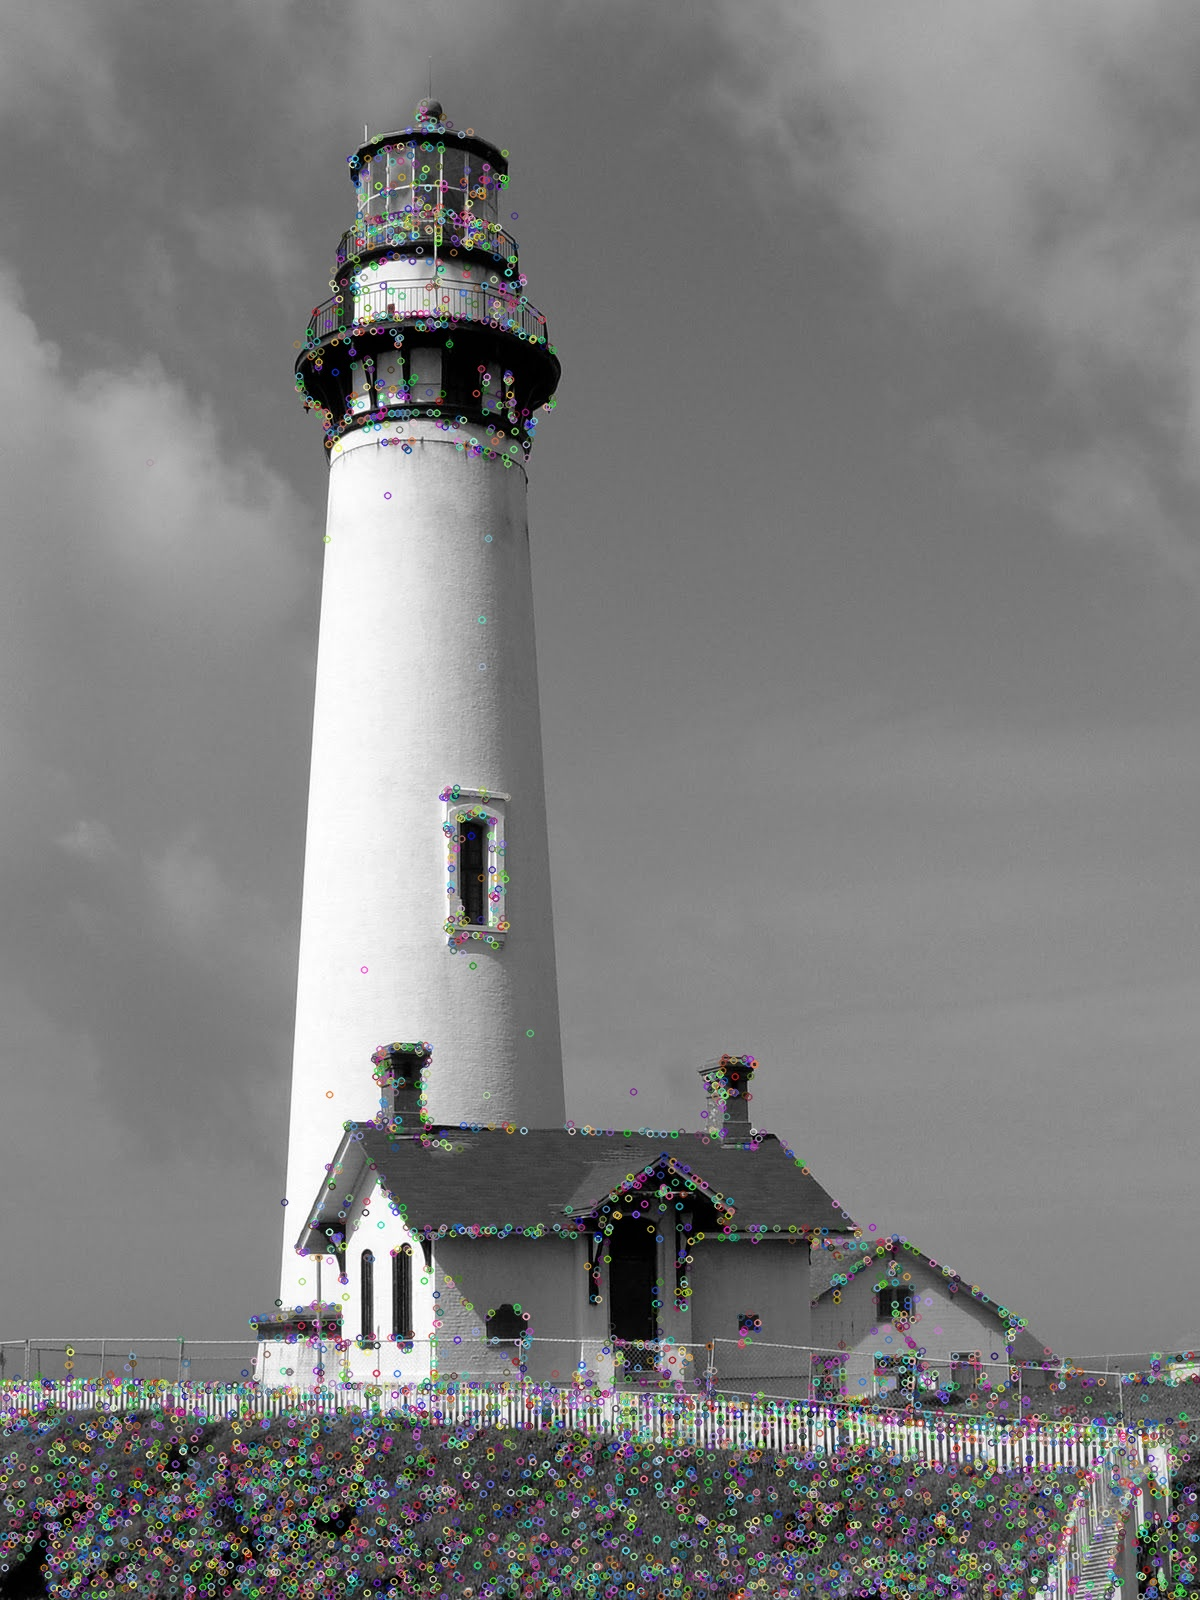
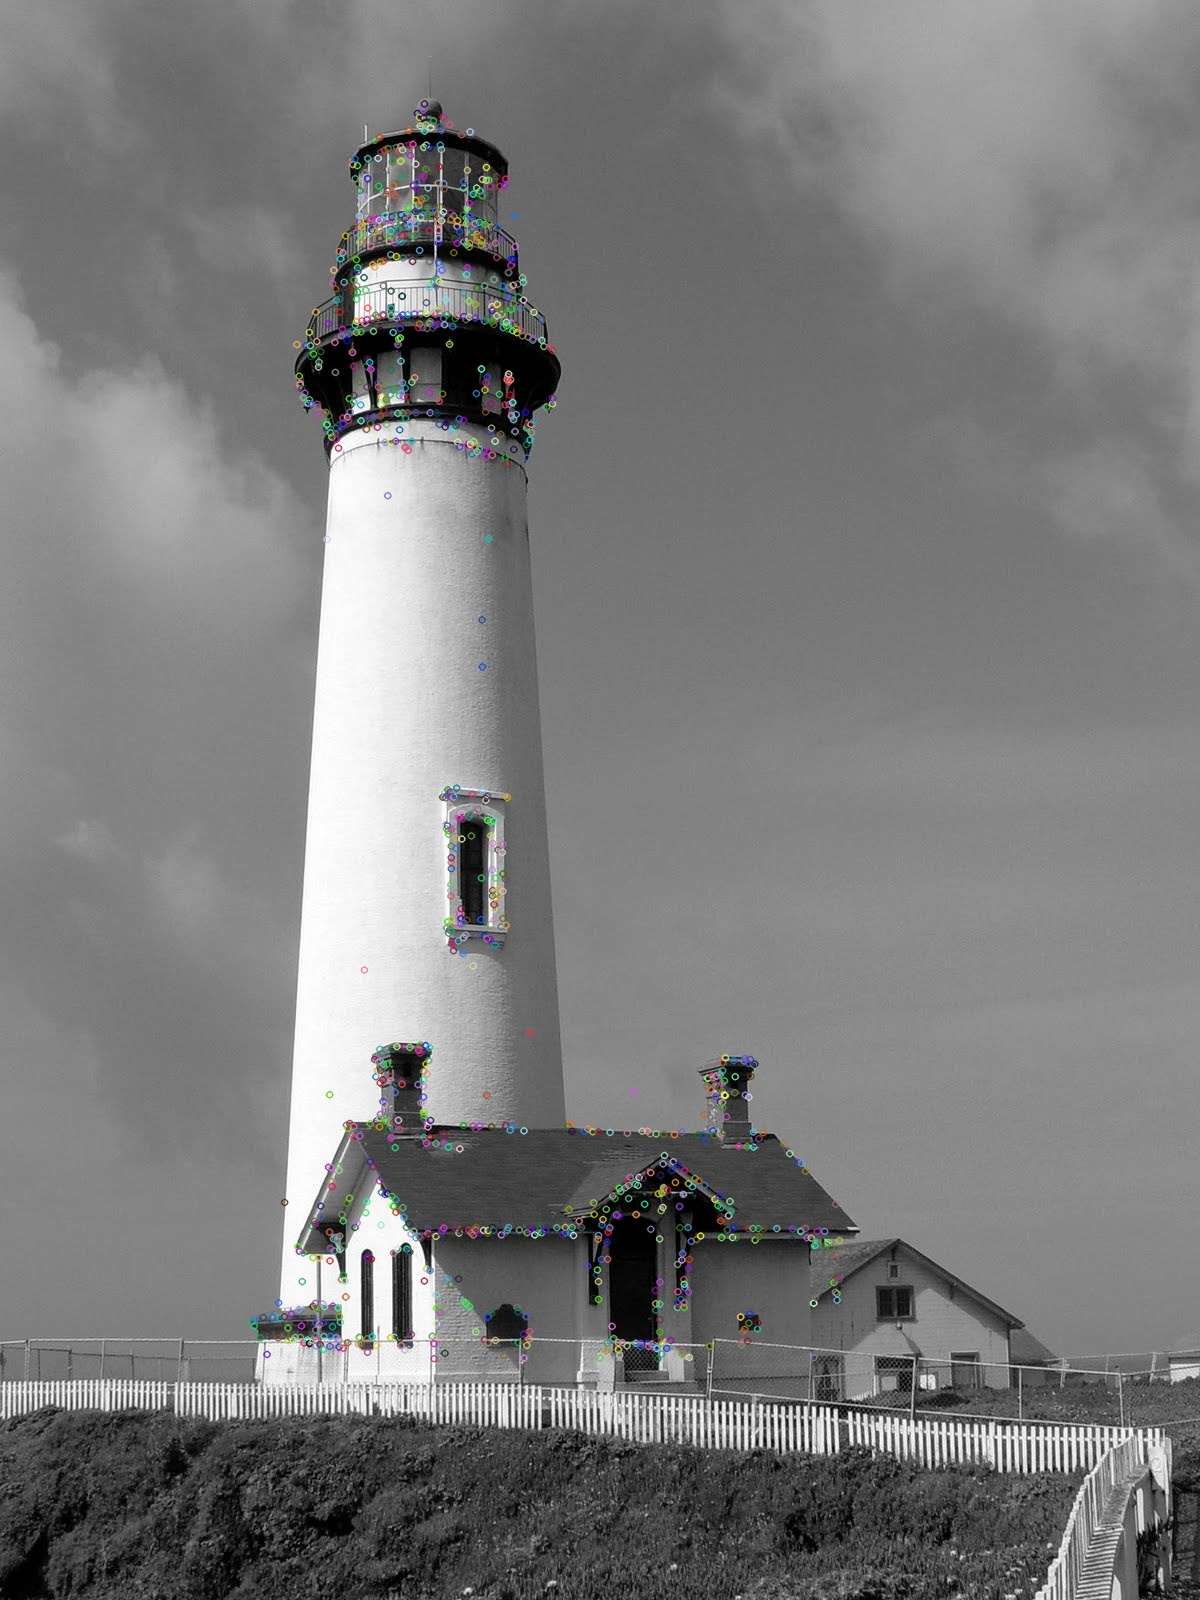
Adding changed images

diff --git a/sift.py b/sift.py
@@ -1,9 +1,10 @@
 #! /usr/bin/env python3
 import cv2 as cv
 import matplotlib.pyplot as plt
-#%matplotlib inline
+import os
+import numpy as np
 
-def sift(lighthouse, detect_lighthouse, blur = False):
+def sift(lighthouse, detect_lighthouse, counter, blur = False, mask=False):
     model_img = cv.imread(lighthouse)
     model_gray = cv.cvtColor(model_img, cv.COLOR_BGR2GRAY)
 
@@ -13,7 +14,20 @@ def sift(lighthouse, detect_lighthouse, blur = False):
 
     # keypoints
     sift = cv.SIFT_create()
-    keypoints = sift.detect(model_gray, None)
+
+    # Create Masks
+    model_mask = np.ones(model_gray.shape)
+    if mask:
+        model_mask[:, :int(model_mask.shape[1]* 2/10)] = 0
+        model_mask[:, int(model_mask.shape[1]* 7/10):] = 0
+        model_mask[:int(model_mask.shape[0]* 1/20), :] = 0
+        model_mask[int(model_mask.shape[0]* 17/20):, :] = 0
+    model_mask = model_mask.astype(np.uint8)
+    if mask:
+        masked_img = cv.bitwise_and(model_gray, model_gray, mask=model_mask)
+        cv.imwrite('Masked Lighthouse.jpg', masked_img)
+
+    keypoints = sift.detect(model_gray, mask=model_mask)
 
     model_img_kp = cv.drawKeypoints(model_gray, keypoints, None)
     #model_img_kp = cv.drawKeypoints(model_gray, keypoints, model_img, flags=cv.DRAW_MATCHES_FLAGS_DRAW_RICH_KEYPOINTS)
@@ -27,7 +41,7 @@ def sift(lighthouse, detect_lighthouse, blur = False):
     cv.imshow('OpenCV Display Window', model_img_kp)
 
     # keypoints and descriptors
-    kp, des = sift.detectAndCompute(model_gray, None)
+    kp, des = sift.detectAndCompute(model_gray, mask=model_mask)
 
     # Read in image to compare
     detect_img = cv.imread(detect_lighthouse)
@@ -50,10 +64,35 @@ def sift(lighthouse, detect_lighthouse, blur = False):
     matches = sorted(matches, key = lambda x:x.distance)
     print(len(matches))
 
-    match_img = cv.drawMatches(model_gray, kp, detect_gray, kp2, matches[:20], None, flags=cv.DrawMatchesFlags_NOT_DRAW_SINGLE_POINTS)
-    cv.imwrite('Matches.jpg', match_img)
+    match_img = cv.drawMatches(model_gray, kp, detect_gray, kp2, matches[:100], None, flags=cv.DrawMatchesFlags_NOT_DRAW_SINGLE_POINTS)
+    cv.imwrite('Matches{}.jpg'.format(counter), match_img)
     #plt.imshow(match_img),plt.show()
 
 if __name__ == "__main__":
-    #sift('pigeonpointlighthouse.jpg', 'PigeonPoint/Pigeon-Point-Vertical.jpg', True)
-    sift('pigeonpointlighthouse.jpg', 'Random/CapePalliserNZ.jpg', True)
+    #sift('pigeonpointlighthouse.jpg', 'Random/1.jpg', False)
+    #sift('pigeonpointlighthouse.jpg', 'Random/2.jpg', False)
+    #sift('pigeonpointlighthouse.jpg', 'Random/3.jpeg', False)
+    #sift('pigeonpointlighthouse.jpg', 'Random/4.jpeg', False)
+    #sift('pigeonpointlighthouse.jpg', 'Random/5.jpg', False)
+    #sift('pigeonpointlighthouse.jpg', 'PigeonPoint/1.jpg', False)
+    #sift('pigeonpointlighthouse.jpg', 'PigeonPoint/2.jpeg', False)
+    #sift('pigeonpointlighthouse.jpg', 'PigeonPoint/3.jpg', False)
+    #sift('pigeonpointlighthouse.jpg', 'PigeonPoint/4.gif', False) # Can't use .gif format
+    #sift('pigeonpointlighthouse.jpg', 'PigeonPoint/5.jpg', False)
+    #sift('pigeonpointlighthouse.jpg', 'PigeonPoint/6.jpg', False)
+    #sift('pigeonpointlighthouse.jpg', 'PigeonPoint/7.jpg', False)
+    #sift('pigeonpointlighthouse.jpg', 'PigeonPoint/8.jpg', False)
+    #sift('pigeonpointlighthouse.jpg', 'PigeonPoint/9.jpg', False)
+    counter = 1
+    random_images = os.listdir('Random')
+    random_images.sort()
+    print(random_images)
+    for image in random_images:
+        sift('pigeonpointlighthouse.jpg', 'Random/{}'.format(image), counter, False, True)
+        counter += 1
+    pigeonpoint_images = os.listdir('PigeonPoint')
+    pigeonpoint_images.sort()
+    print(pigeonpoint_images)
+    for image in pigeonpoint_images:
+        sift('pigeonpointlighthouse.jpg', 'PigeonPoint/{}'.format(image), counter, False, True)
+        counter += 1
